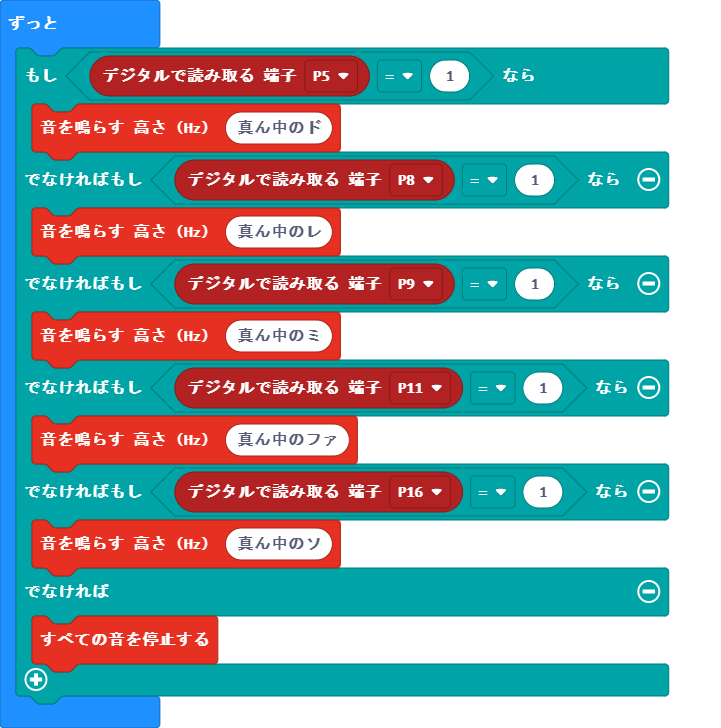
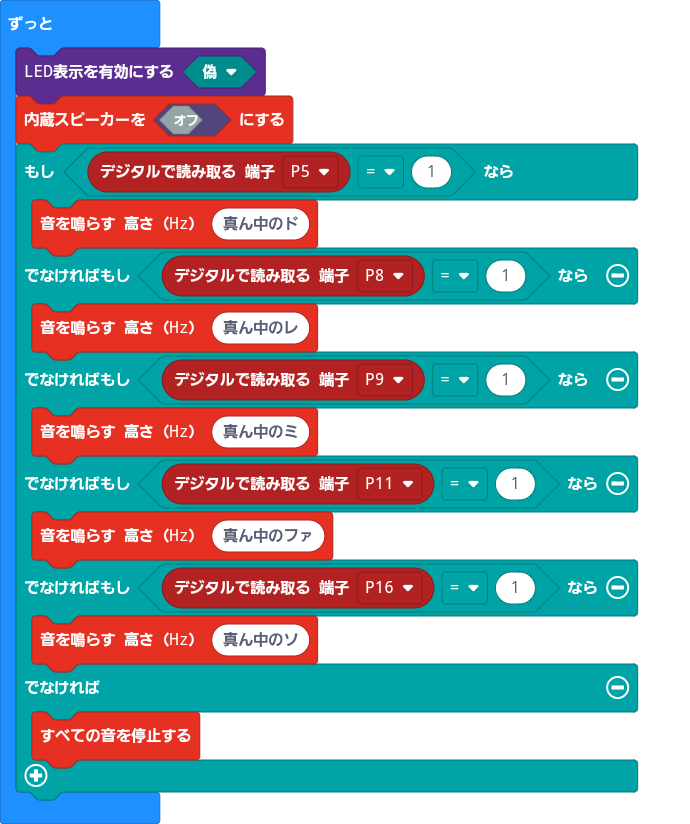
output to P0

diff --git a/main.ts b/main.ts
@@ -1,4 +1,6 @@
 basic.forever(function () {
+    led.enable(false)
+    music.setBuiltInSpeakerEnabled(false)
     if (pins.digitalReadPin(DigitalPin.P5) == 1) {
         music.ringTone(262)
     } else if (pins.digitalReadPin(DigitalPin.P8) == 1) {

diff --git a/main.py b/main.py
@@ -1,0 +1,16 @@
+def on_forever():
+    led.enable(False)
+    music.set_built_in_speaker_enabled(False)
+    if pins.digital_read_pin(DigitalPin.P5) == 1:
+        music.ring_tone(262)
+    elif pins.digital_read_pin(DigitalPin.P8) == 1:
+        music.ring_tone(294)
+    elif pins.digital_read_pin(DigitalPin.P9) == 1:
+        music.ring_tone(330)
+    elif pins.digital_read_pin(DigitalPin.P11) == 1:
+        music.ring_tone(349)
+    elif pins.digital_read_pin(DigitalPin.P16) == 1:
+        music.ring_tone(392)
+    else:
+        music.stop_all_sounds()
+basic.forever(on_forever)
